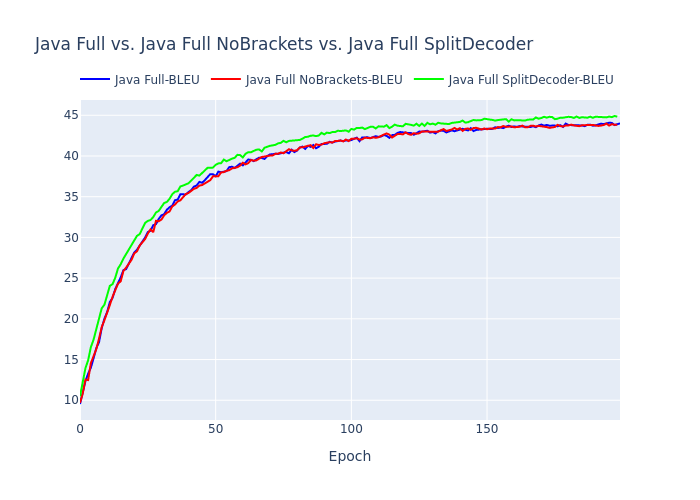
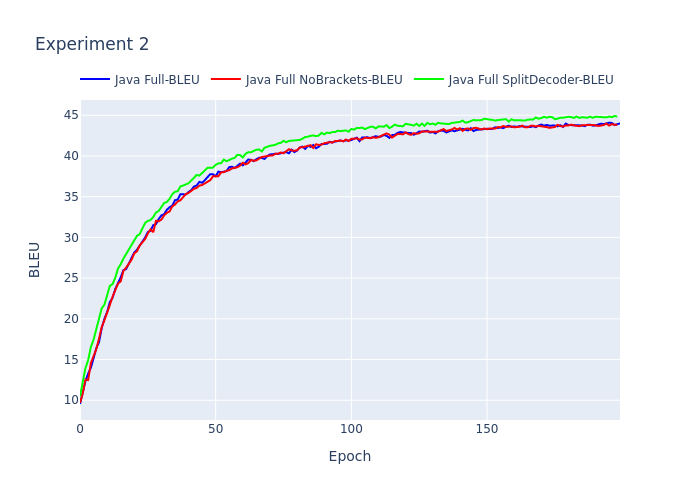
more plots

Changed region(s): [[0.06, 0.06, 0.75, 0.12], [0.03, 0.48, 0.06, 0.57]]

diff --git a/analysis/epochplot.py b/analysis/epochplot.py
@@ -14,17 +14,18 @@ dataDir = '../tmp'
 plotsDir = 'epochplots'
 
 experiments = {
-    # 'full_java':'Java Full',
-    # 'full_java_nosym':'Java Full NoBrackets',
-    # 'full_java_2':'Java Full SplitDecoder',
+    'full_java':'Java Full',
+    'full_java_nosym':'Java Full NoBrackets',
+    'full_java_2':'Java Full SplitDecoder',
     # 'full_py':'Python Full',
+    # 'rnn_py':'Python RNN',
     # 'full_php':'PHP Full',
-    'full_go':'Go Full',
-    'full_go_2':'Go Full LR=5e-5',
-    'full_go_3':'Go Full LR=1e-5',
-    'full_go_4':'Go Full short tgt_len',
-    'full_go_5':'Go Full long src_len,tgt_len & small vocab',
-    'full_go_6':'Go Full 5 but split decoder',
+    # 'full_go':'Go Full',
+    # 'full_go_2':'Go Full LR=5e-5',
+    # 'full_go_3':'Go Full LR=1e-5',
+    # 'full_go_4':'Go Full short tgt_len',
+    # 'full_go_5':'Go Full long src_len,tgt_len & small vocab',
+    # 'full_go_6':'Go Full 5 but split decoder',
 }
 
 fields = [
@@ -97,10 +98,10 @@ def main():
             plot(fig, experiments[experiment] + '-' + field, df[field], color)
             traceNum += 1
 
-    fig.update_layout(title='',
+    fig.update_layout(title='Experiment 2',
                     #   title=' vs. '.join(experiments.values()),
                       xaxis_title='Epoch',
-                      yaxis_title='', 
+                      yaxis_title='BLEU', 
                       legend=dict(orientation="h", yanchor="bottom", y=1.02, xanchor="right", x=1))
 
     if not(os.path.exists(plotsDir)): os.makedirs(plotsDir)
